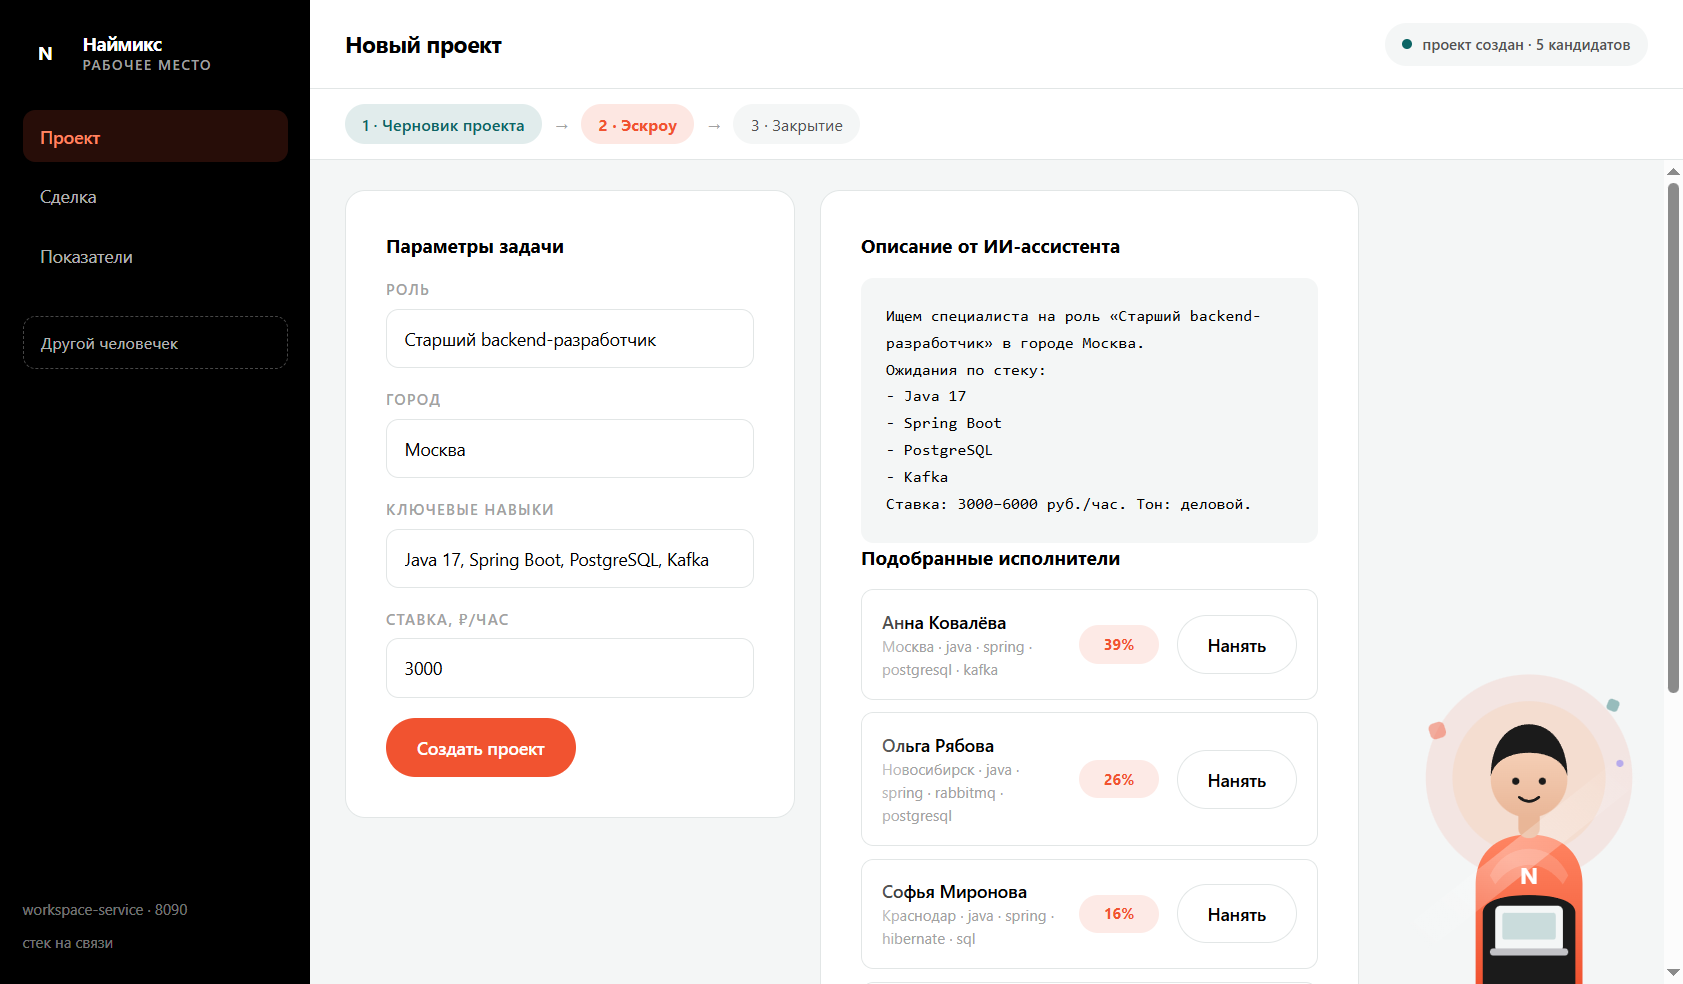
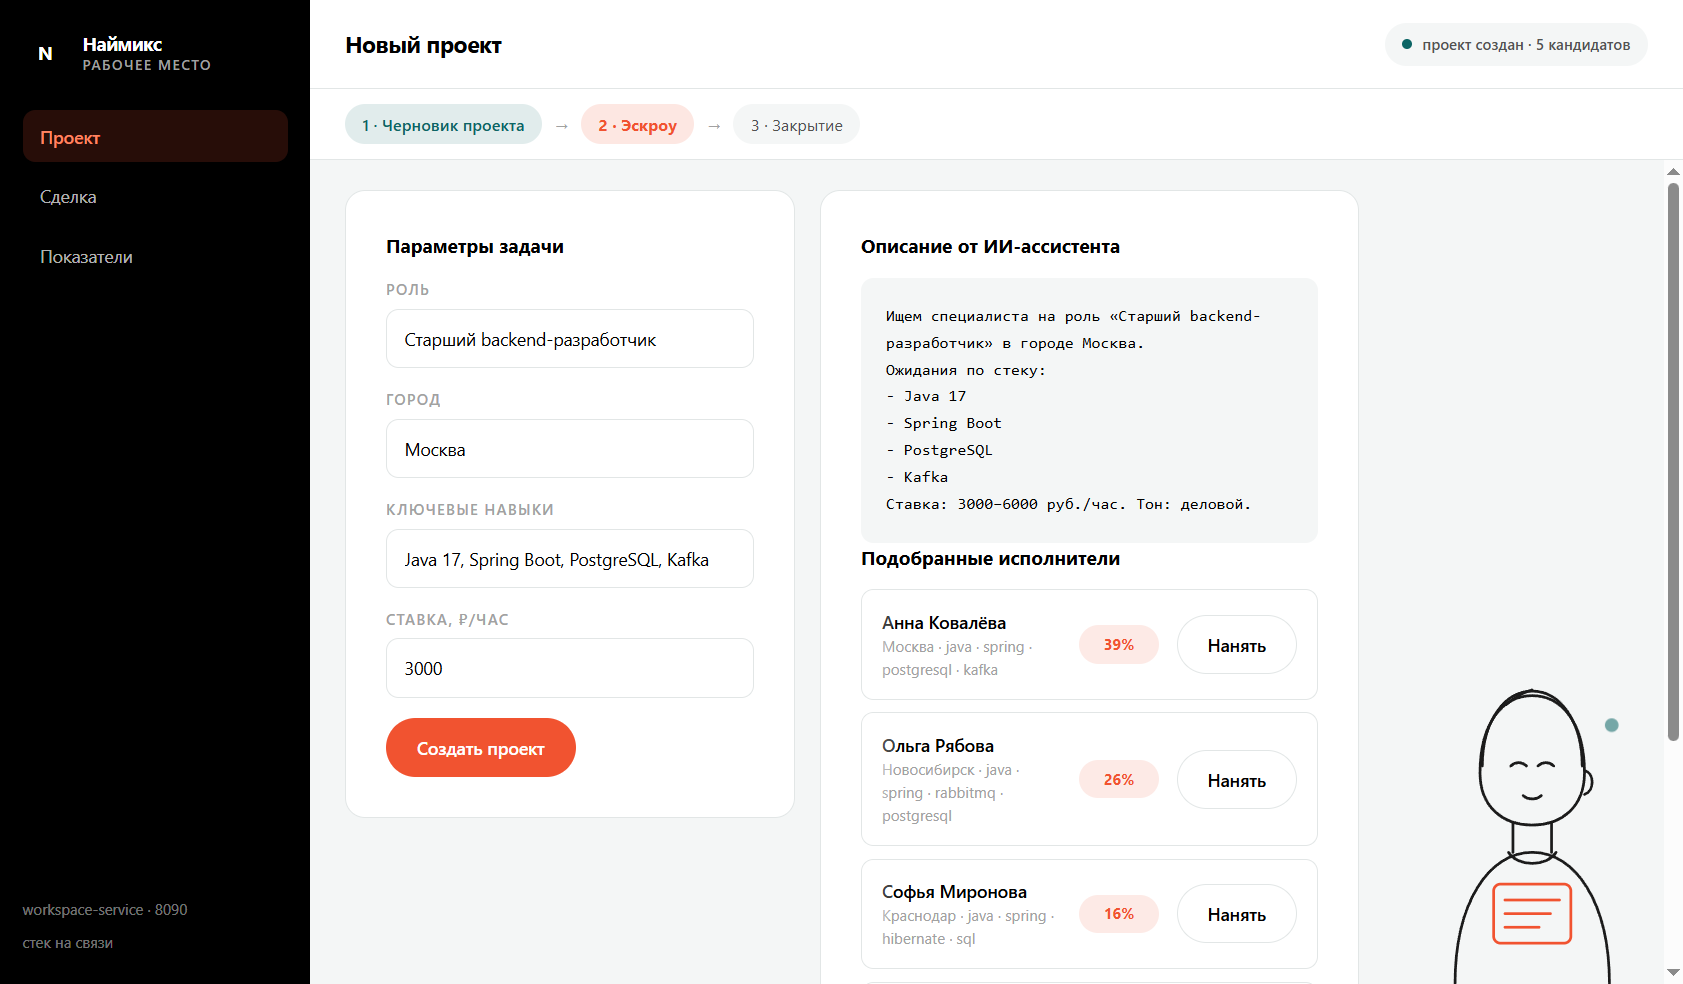
feat(desktop): рисованный персонаж вместо фигурок, меняется при переходе по разделам
Убраны карикатурные человечки с карточек. В правом нижнем углу контурный персонаж: на проекте с блокнотом, на сделке с монетой, на показателях с графиком; поза меняется по data-view, при прокрутке фигура смещается по переменной --scroll. Скриншоты пересняты.

Changed region(s): [[0.8342, 0.7012, 0.9578, 1.0], [0.9887, 0.7012, 1.0, 0.7622], [0.0309, 0.3354, 0.0927, 0.3659]]

diff --git a/desktop/renderer/index.html b/desktop/renderer/index.html
@@ -7,7 +7,7 @@
   <title>Наймикс · Кабинет заказчика</title>
   <link rel="stylesheet" href="styles.css">
 </head>
-<body>
+<body data-view="project">
 
 <div class="app">
   <aside class="side">
@@ -21,8 +21,6 @@
       <a class="side__link" href="#" data-view="deal">Сделка</a>
       <a class="side__link" href="#" data-view="kpi">Показатели</a>
     </nav>
-
-    <button class="side__switch" id="hero-switch" type="button">Другой человечек</button>
 
     <div class="side__foot">
       <span>workspace-service · 8090</span>
@@ -69,12 +67,11 @@
             <button class="btn btn--accent" id="draft-run" type="button">Создать проект</button>
           </div>
 
-          <div class="panel panel--flat panel--art">
+          <div class="panel panel--flat">
             <h2 class="section-title">Описание от ИИ-ассистента</h2>
             <pre class="output" id="draft-text">Создайте проект — здесь появится сгенерированное описание.</pre>
             <h2 class="section-title">Подобранные исполнители</h2>
             <div id="candidates"></div>
-            <div class="art-strip"><img class="card-crew" src="assets/crew.svg" alt=""></div>
           </div>
         </div>
       </section>
@@ -92,7 +89,7 @@
             <p class="muted" id="deal-hint" style="margin-bottom:0">Выберите исполнителя на вкладке «Проект».</p>
           </div>
 
-          <div class="panel panel--flat panel--art">
+          <div class="panel panel--flat">
             <h2 class="section-title">Состояние сделки</h2>
             <div class="timeline" id="deal-timeline"></div>
             <div id="deal-cards">
@@ -100,27 +97,61 @@
             </div>
             <h2 class="section-title">Уведомление исполнителю</h2>
             <pre class="output" id="notification-state">—</pre>
-            <div class="art-strip"><img class="card-crew" src="assets/crew.svg" alt=""></div>
           </div>
         </div>
       </section>
 
       <section class="view" data-view="kpi" hidden>
         <div class="kpi" id="kpi-cards"></div>
-        <div class="panel panel--flat panel--art">
+        <div class="panel panel--flat">
           <h2 class="section-title">События аналитики</h2>
           <table class="table">
             <tbody id="kpi-body">
               <tr><td colspan="2" class="muted">Загружаю показатели…</td></tr>
             </tbody>
           </table>
-          <div class="art-strip"><img class="card-crew" src="assets/crew.svg" alt=""></div>
         </div>
       </section>
 
     </div>
 
-    <img class="hero-art" id="hero-art" src="assets/hero-a.svg" alt="">
+    <svg class="character" id="character" viewBox="0 0 240 340" fill="none" aria-hidden="true">
+      <g class="ch-figure" stroke="#1b1b1b" stroke-width="2.4" stroke-linecap="round" stroke-linejoin="round">
+        <path d="M52 340 C52 268 82 224 120 224 C158 224 188 268 188 340"/>
+        <path d="M103 224 L103 198"/>
+        <path d="M137 224 L137 198"/>
+        <path d="M74 154 C74 110 94 86 120 86 C146 86 166 110 166 154 C166 184 146 200 120 200 C94 200 74 184 74 154 Z"/>
+        <path d="M76 148 C76 108 96 82 120 82 C144 82 164 108 164 148"/>
+        <path d="M97 94 C105 87 112 83 120 81"/>
+        <path d="M166 152 C175 154 175 170 166 173"/>
+        <path d="M101 148 C105 144 111 144 115 148"/>
+        <path d="M125 148 C129 144 135 144 139 148"/>
+        <path d="M112 174 C116 178 124 178 128 174"/>
+        <path d="M99 224 C107 237 133 237 141 224"/>
+      </g>
+
+      <g class="ch-prop ch-prop--project" stroke="#f15330" stroke-width="2.4" stroke-linecap="round">
+        <rect x="86" y="252" width="68" height="52" rx="6"/>
+        <path d="M96 266 H144"/>
+        <path d="M96 278 H136"/>
+        <path d="M96 290 H126"/>
+      </g>
+
+      <g class="ch-prop ch-prop--deal" stroke="#f15330" stroke-width="2.4" stroke-linecap="round">
+        <circle cx="120" cy="278" r="24"/>
+        <path d="M113 266 H129"/>
+        <path d="M113 290 H129"/>
+        <path d="M121 262 V294"/>
+      </g>
+
+      <g class="ch-prop ch-prop--kpi" stroke="#f15330" stroke-width="2.4" stroke-linecap="round">
+        <path d="M88 300 L108 282 L124 292 L152 258"/>
+        <path d="M86 300 V256" opacity="0.45"/>
+        <circle cx="152" cy="258" r="4" fill="#f15330" stroke="none"/>
+      </g>
+
+      <circle class="ch-dot" cx="190" cy="118" r="6" fill="#0c6565" opacity="0.55"/>
+    </svg>
   </main>
 </div>
 

diff --git a/desktop/renderer/app.js b/desktop/renderer/app.js
@@ -4,17 +4,9 @@ const state = { vacancyId: null, holdId: null, candidates: [] };
 
 const qs = (selector) => document.querySelector(selector);
 
-const HERO_VARIANTS = ["assets/hero-a.svg", "assets/hero-b.svg", "assets/hero-c.svg"];
-
-let heroIndex = 0;
-
-const setHero = (index) => {
-  heroIndex = index % HERO_VARIANTS.length;
-  qs("#hero-art").src = HERO_VARIANTS[heroIndex];
-};
-
-const cycleHero = () => {
-  setHero(heroIndex + 1);
+const trackScroll = (event) => {
+  const ratio = event.target.scrollTop / (event.target.scrollHeight - event.target.clientHeight || 1);
+  qs("#character").style.setProperty("--scroll", String(ratio));
 };
 
 const setText = (selector, value) => {
@@ -250,9 +242,14 @@ const markActive = (name) => {
   });
 };
 
+const labelSection = (name) => {
+  setText("#view-title", TITLES[name]);
+  document.body.dataset.view = name;
+};
+
 const focusSection = (name) => {
   markActive(name);
-  setText("#view-title", TITLES[name]);
+  labelSection(name);
 };
 
 const showView = (name) => {
@@ -275,12 +272,7 @@ const bind = (selector, handler) => {
   qs(selector).addEventListener("click", handler);
 };
 
-const BINDINGS = [
-  ["#draft-run", runDraft],
-  ["#accept-run", runAccept],
-  ["#cancel-run", runCancel],
-  ["#hero-switch", cycleHero]
-];
+const BINDINGS = [["#draft-run", runDraft], ["#accept-run", runAccept], ["#cancel-run", runCancel]];
 
 const bindPair = (pair) => bind(pair[0], pair[1]);
 
@@ -288,8 +280,17 @@ const wireNav = () => {
   document.querySelectorAll(".side__link").forEach(bindNav);
 };
 
-const start = () => {
+const wireScroll = () => {
+  qs(".workspace__body").addEventListener("scroll", trackScroll);
+};
+
+const wire = () => {
   wireNav();
+  wireScroll();
+};
+
+const start = () => {
+  wire();
   loadOverview();
 };
 
@@ -302,8 +303,7 @@ window.__demo = {
   showDraft: showDraft,
   showAssignment: showAssignment,
   showKpi: showKpi,
-  view: showView,
-  setHero: setHero
+  view: showView
 };
 
 document.addEventListener("DOMContentLoaded", main);

diff --git a/desktop/renderer/styles.css b/desktop/renderer/styles.css
@@ -209,26 +209,72 @@ body {
   background: var(--accent);
 }
 
-.hero-art {
+.character {
   position: absolute;
   right: 12px;
   bottom: 0;
-  width: 228px;
+  width: 218px;
+  z-index: 0;
   pointer-events: none;
   user-select: none;
-  z-index: 0;
+  transform: translateY(calc(var(--scroll, 0) * -12px));
+  transition: transform 0.25s ease-out;
 }
 
-.side__switch {
-  padding: 10px 14px;
-  border-radius: var(--radius-sm);
-  border: 1px dashed rgba(255, 255, 255, 0.28);
-  background: transparent;
-  color: rgba(255, 255, 255, 0.7);
-  font: inherit;
-  font-size: 13px;
-  text-align: left;
-  cursor: pointer;
+.ch-figure {
+  transform-origin: 120px 200px;
+  transition: transform 0.6s cubic-bezier(0.2, 0.7, 0.3, 1);
+}
+
+body[data-view="deal"] .ch-figure {
+  transform: rotate(-1.6deg) translateY(-3px);
+}
+
+body[data-view="kpi"] .ch-figure {
+  transform: rotate(1.6deg) translateY(-5px);
+}
+
+.ch-prop {
+  opacity: 0;
+  transform: translateY(12px);
+  transition: opacity 0.45s ease, transform 0.5s cubic-bezier(0.2, 0.7, 0.3, 1);
+}
+
+body[data-view="project"] .ch-prop--project,
+body[data-view="deal"] .ch-prop--deal,
+body[data-view="kpi"] .ch-prop--kpi {
+  opacity: 1;
+  transform: translateY(0);
+}
+
+.ch-dot {
+  transform-origin: 190px 118px;
+  animation: ch-float 5s ease-in-out infinite;
+}
+
+@keyframes ch-float {
+  0%,
+  100% {
+    transform: translateY(0);
+  }
+
+  50% {
+    transform: translateY(-6px);
+  }
+}
+
+@media (prefers-reduced-motion: reduce) {
+  .character,
+  .ch-figure,
+  .ch-prop,
+  .ch-dot {
+    transition: none;
+    animation: none;
+  }
+}
+
+.panel--flat {
+  box-shadow: none;
 }
 
 .side__switch:hover {

diff --git a/desktop/main.js b/desktop/main.js
@@ -133,14 +133,6 @@ async function captureScenario(win) {
   await delay(800);
   await shot(win, "03-kpi.png");
 
-  await inject(win, "window.__demo.setHero(1)");
-  await delay(600);
-  await shot(win, "04-hero-b.png");
-
-  await inject(win, "window.__demo.setHero(2)");
-  await delay(600);
-  await shot(win, "05-hero-c.png");
-
   app.quit();
 }
 

diff --git a/README.md b/README.md
@@ -17,14 +17,12 @@
 
 1. [01-project-draft.png](desktop/screenshots/01-project-draft.png) — новый проект с ИИ-описанием и подбором
 2. [02-escrow-held.png](desktop/screenshots/02-escrow-held.png) — сделка, эскроу HELD, уведомление
-3. [03-kpi.png](desktop/screenshots/03-kpi.png) — показатели аналитики и команда на карточке
-4. [04-hero-b.png](desktop/screenshots/04-hero-b.png) — вариант персонажа в наушниках
-5. [05-hero-c.png](desktop/screenshots/05-hero-c.png) — вариант персонажа с чашкой кофе
+3. [03-kpi.png](desktop/screenshots/03-kpi.png) — показатели аналитики
 
-Персонажа в правом нижнем углу можно менять кнопкой «Другой человечек» в сайдбаре:
-три готовых SVG-варианта лежат в `desktop/renderer/assets/hero-*.svg`.
-
-![Кабинет: показатели и команда](desktop/screenshots/03-kpi.png)
+Персонаж в правом нижнем углу нарисован контурной линией и меняется при переходе между
+разделами: на «Проекте» он с блокнотом, на «Сделке» — с монетой, на «Показателях» — с графиком.
+Поза слегка наклоняется, а при прокрутке страницы фигура плавно смещается вместе с контентом
+(переменная `--scroll` и `data-view` на `body`).
 
 Electron-приложение (`desktop/`) — рабочее место заказчика: создание проекта с ИИ-описанием,
 подбор исполнителей, эскроу-сделка, показатели аналитики. Стиль повторяет сайт компании:
